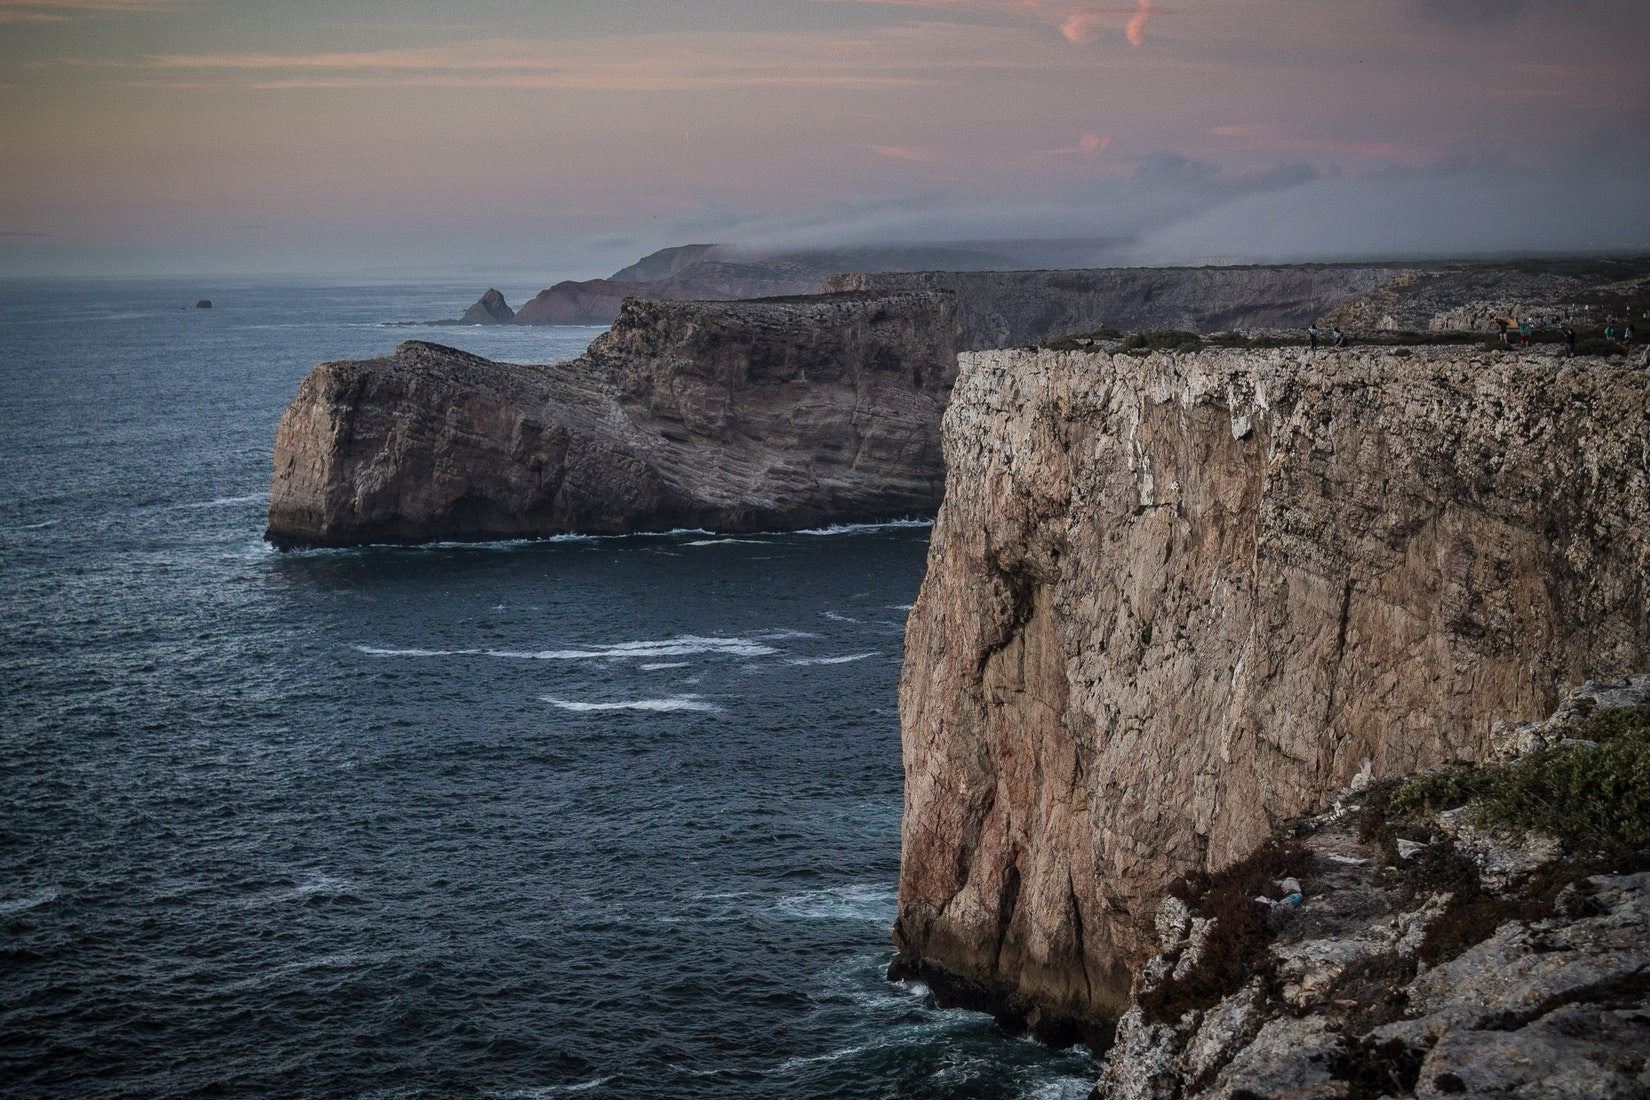
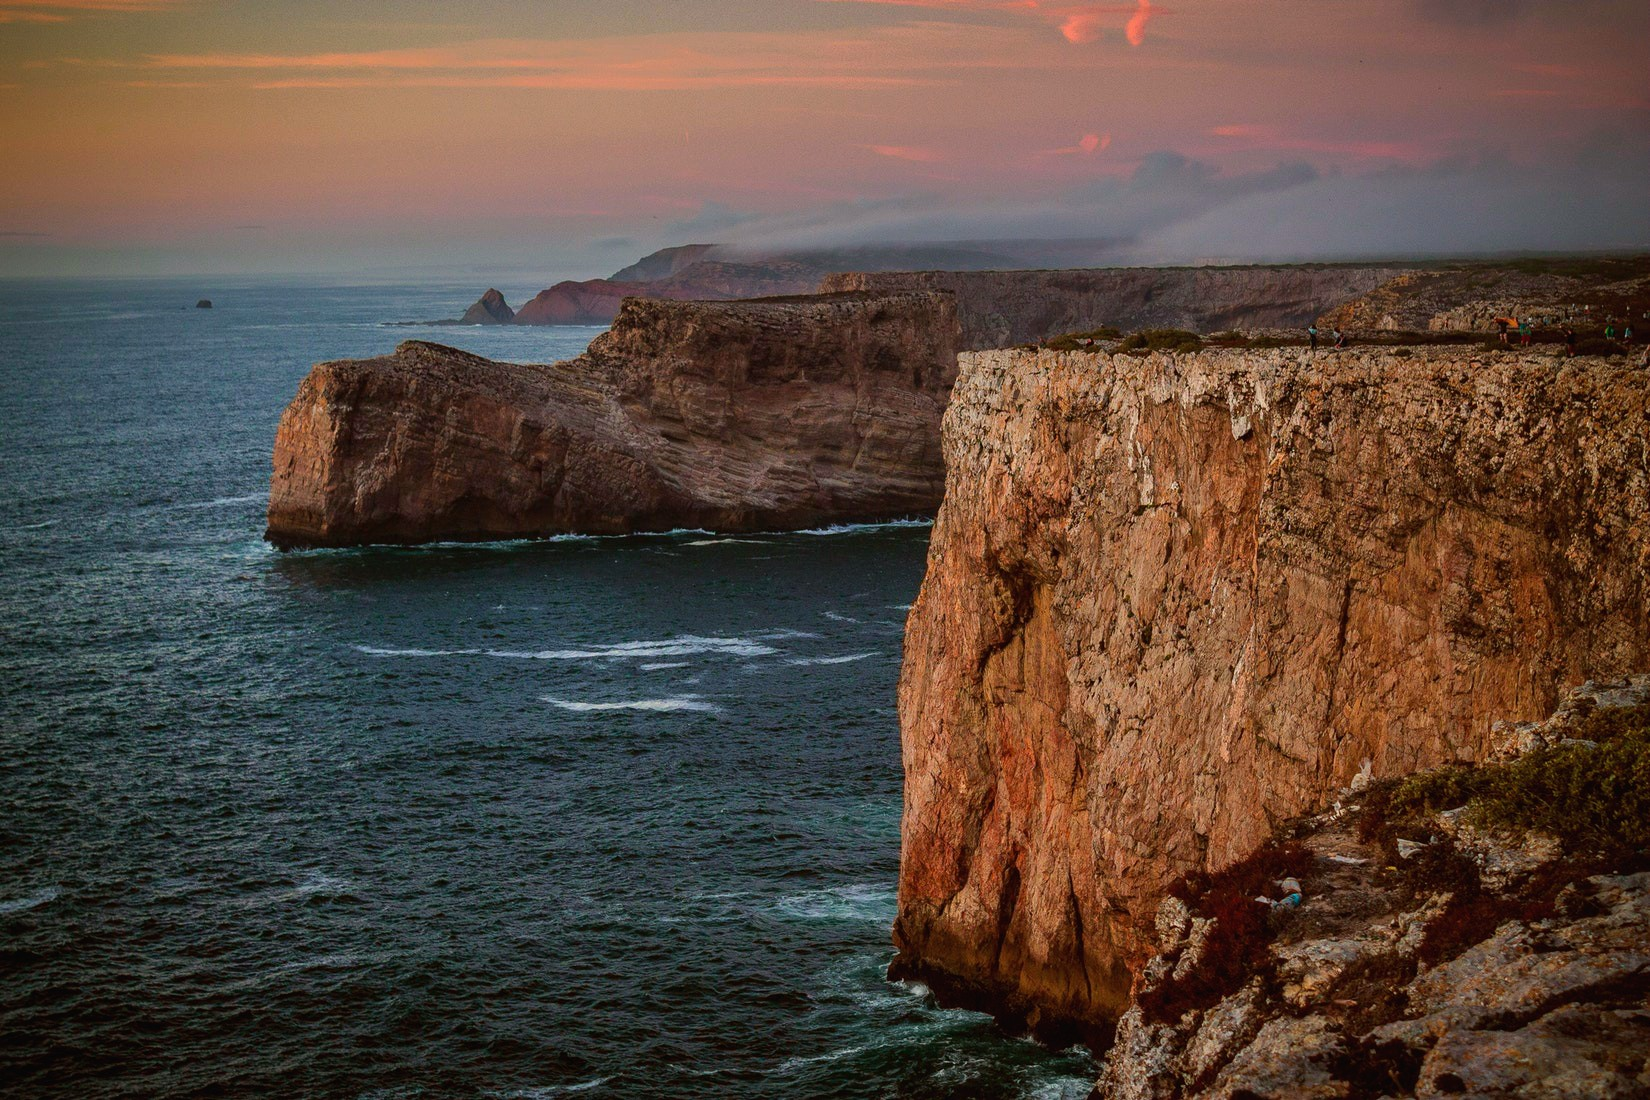
changed image

diff --git a/app.html b/app.html
@@ -85,7 +85,8 @@
 <div class="jumbotron">
     <div id="Frontjumbo">
         <div class="textBlock">
-            <h3>Welcome to our site</h3>
+            <h2>Welcome to our site</h3>
+                <hr>
             <p>Welcome to a destination with focus on nature. Sagres is a town unlike other in Portugal, being
                 situated
                 in the extreme west of Portugal it is a harbor for people who want to escape to Nature.
@@ -98,16 +99,16 @@
             </p>
             <p>
                 Feel free to contact us if you have any Questions.
-            </p>
+            </p >
 
 
-            <hr>
+          
         </div>
     </div>
 
 
     <!-- Video and a bit of explenation -->
-    <div>
+    <!-- <div>
 
 
         <div class="row d-flex justify-content-center">
@@ -115,7 +116,7 @@
                     frameborder="0" allow="autoplay; encrypted-media"
                     allowfullscreen></iframe>
 
-        </div>
+        </div> -->
 
 
         <!-- Dive sites  -->
@@ -127,14 +128,15 @@
                 <h2>Diving in Sagres</h2>
                 <hr>
             </div>
-
+            
+            
 
         </div>
         <div class="textBlock">
             <p>Diving in Sagres is an exciting exploration into the ocean.
-            <p>We offer a various types of diving on all levels wether your beginner or up to a new challange.
-                We go out everyday for fundiving. As we set high standards for safety a Dive guide or instructor from
-                our center will always be joing
+            <p>We offer various types of diving on all levels wether you are a complete beginner or up to a new challenge.
+                We go out everyday for fundiving. As we set high standards for safety, a Dive guide or instructor from
+                our center will always be joining
                 the dives.
             </p>
             <p> Below you can see some of the things we have to offer in our Image gallery. </p>
@@ -143,11 +145,12 @@
 
         </div>
 
+        
 
         <!-- Prices -->
 
         <div class="Imagecontainer" id="courses_prices">
-            <img src="Extensions/Images/DPrices.jpg">
+            <img src="Extensions/Images/blub.jpg">
 
             <div class="centered">
                 <h2>Courses & Prices</h2>
@@ -257,18 +260,16 @@
 
 
         <div class="Imagecontainer" id="contact">
-            <img src="Extensions/Images/sunlight.jpg">
+            <img src="Extensions/Images/beach.jpg">
 
             <div class="centered">
-                <h2>Where & Contact</h2>
+                <h2>Location & Contact</h2>
                 <hr>
             </div>
 
 
-        </div>
-    </div>
+        
 
-    <div class="jumbotron">
 
 
         <!-- Image gallery tryout -->
@@ -352,7 +353,7 @@
 </div>
 
 
-<!-- end of header -->
+</div>
 
 
 <!-- footer -->

diff --git a/Extensions/App.css b/Extensions/App.css
@@ -1,14 +1,13 @@
 
 
 body {
-    background-image: url('Images/cliffs..jpg');
+    background-image: url('Images/cliffs2..jpg');
     background-repeat: no-repeat;
     font-family: 'Josefin Sans', sans-serif;
     font-family: 'Work Sans', sans-serif;
       font-size: 17px;
     background-color: #EAE8FF;
     color: #4A6FA5;
-   
     background-repeat: no-repeat;
     background-attachment: fixed;
     background-position: 50% 0%;
@@ -90,7 +89,7 @@ button {
 }
 
 .frontP {
-    /* padding-bottom: 10%; */
+    padding-bottom: 10%;
 }
 
 
@@ -129,12 +128,10 @@ footer {
     position: absolute;
     left: 0;
     color: #FCAB64;
-
+    background-color: #EAE8FF;
     bottom: 0;
     height: 100px;
-    width: 100%;
-    background-image:url("Images/FN.jpg");
-    
+    width: 100%;    
     text-align: center;
     margin-top: 100em;
 }
@@ -142,7 +139,10 @@ footer {
 
 #jumbo { 
     border-width: 2em;
-    background-image:url("Images/FN4.jpg");
+    background-image:url("Images/yes.jpg");
+    color: #EAE8FF;
+   
+
     background-position: center;
     /* margin-top: 5em; */
 }
@@ -245,9 +245,6 @@ hr {
 
 }
 
-iframe {
-    margin: 5%;
-}
 
 
 img {
@@ -315,6 +312,8 @@ img {
     position: relative;
     text-align: center;
     color: white;
+    border-radius: 25px;
+
 }
 
 .centered {
@@ -396,7 +395,8 @@ th:last-child {
   
 tr {
   border-top: 1px solid #C1C3D1;
-  border-bottom-: 1px solid #C1C3D1;
+
+
   color:#666B85;
   font-size:16px;
   font-weight:normal;
@@ -471,3 +471,14 @@ td.text-center {
 td.text-right {
   text-align: right;
 }
+
+
+
+
+img {
+        border-radius: 25px;
+
+}
+/* slideshow */
+
+
